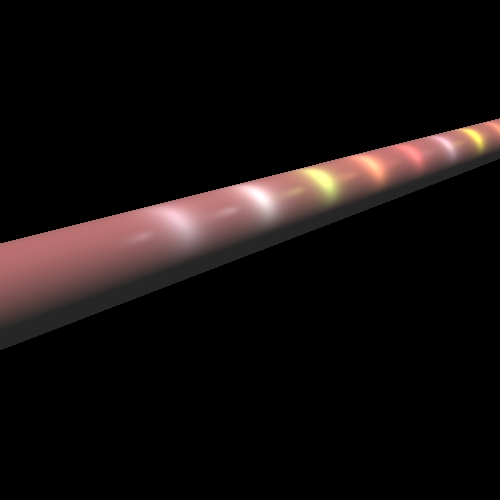
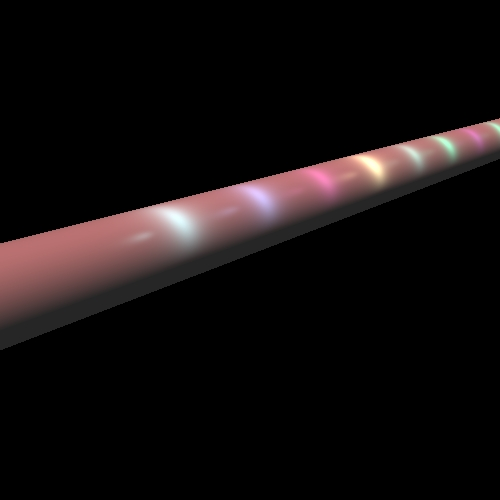
אחרי תיקוני הערות של המרצה

diff --git a/src/unittests/renderer/ImageWriterTest.java b/src/unittests/renderer/ImageWriterTest.java
@@ -1,11 +1,6 @@
 package renderer;
 
-import elements.Camera;
-import org.junit.Before;
 import org.junit.Test;
-import primitives.Point3D;
-import primitives.Vector;
-import scene.Scene;
 
 import java.awt.*;
 
@@ -13,38 +8,24 @@ import java.awt.*;
  * Unit tests for ImageWriter class
  */
 public class ImageWriterTest {
-    Scene scene;
-    ImageWriter imageWriter;
-    Render render;
-
-    @Before
-    public void setUp() {
-        scene = new Scene("Test scene");
-        scene.setCamera(new Camera(Point3D.ZERO, new Vector(0, 0, 1), new Vector(0, -1, 0)));
-        scene.setBackground(new primitives.Color(25, 96, 20));
-    }
-
     /**
      * Test method for {@link renderer.ImageWriter#writeToImage}.
      */
     @Test
     public void writeToImage() {
-        imageWriter = new ImageWriter("Test write to image", 500, 500, 500, 500);
-        render = new Render(imageWriter, scene);
-        render.renderImage();
-        render.printGrid(50, java.awt.Color.YELLOW);
-        imageWriter.writeToImage();
-    }
-
-    /**
-     * Test method for {@link renderer.ImageWriter#writePixel}.
-     */
-    @Test
-    public void writePixel() {
-        imageWriter = new ImageWriter("Test write pixel", 500, 500, 500, 500);
-        render = new Render(imageWriter, scene);
-        render.printGrid(50, java.awt.Color.YELLOW);
-        imageWriter.writePixel(10, 10, new Color(159, 147, 0));
+        int width = 1600;
+        int height = 1000;
+        int nX = 800;
+        int nY = 500;
+        ImageWriter imageWriter = new ImageWriter("Test write to image", width, height, nX, nY);
+        for (int column = 0; column < nY; ++column) {
+            for (int row = 0; row < nX; ++row) {
+                if (column % 50 == 0 || row % 50 == 0)
+                    imageWriter.writePixel(row, column, Color.red);
+                else
+                    imageWriter.writePixel(row, column, Color.YELLOW);
+            }
+        }
         imageWriter.writeToImage();
     }
 }

diff --git a/src/renderer/Render.java b/src/renderer/Render.java
@@ -9,6 +9,8 @@ import scene.Scene;
 
 import java.util.List;
 
+import static primitives.Util.alignZero;
+
 /**
  * class that create image from the scene
  */
@@ -116,7 +118,9 @@ public class Render {
         double kS = material.getKS();
         for (LightSource lightSource : _scene.getLights()) {
             Vector l = lightSource.getL(intersection._point);
-            if ((n.dotProduct(l) > 0 && n.dotProduct(v) > 0) || (n.dotProduct(l) < 0 && n.dotProduct(v) < 0)) {
+            double nDotL = alignZero(n.dotProduct(l));
+            double nDotV = alignZero(n.dotProduct(v));
+            if ((nDotL > 0 && nDotV > 0) || (nDotL < 0 && nDotV < 0)) {
                 Color lightIntensity = lightSource.getIntensity(intersection._point);
                 color = color.add(
                         calcDiffusive(kD, l, n, lightIntensity),
@@ -136,10 +140,11 @@ public class Render {
      * @return the diffusive color
      */
     private Color calcDiffusive(double kD, Vector l, Vector n, Color lightIntensity) {
-        double x = l.dotProduct(n);
-        x = x > 0 ? x : -x;
+        double lDotN = alignZero(l.dotProduct(n));
+        if (lDotN < 0)
+            lDotN = -lDotN;
         // lightIntensity - iL
-        return lightIntensity.scale(x * kD);
+        return lightIntensity.scale(lDotN * kD);
     }
 
     /**
@@ -155,9 +160,10 @@ public class Render {
      */
     private Color calcSpecular(double kS, Vector l, Vector n, Vector v, int nShininess, Color lightIntensity) {
         Vector r = l.subtract(n.scale(l.dotProduct(n) * 2));
-        double x = r.dotProduct(v.scale(-1));
-        x = Math.pow(x > 0 ? x : 0, nShininess) * kS;
-        return lightIntensity.scale(x);
+        double minusVDotR = alignZero(r.dotProduct(v.scale(-1)));
+        if (minusVDotR <= 0)
+            return Color.BLACK;
+        return lightIntensity.scale(Math.pow(minusVDotR, nShininess) * kS);
     }
 
     /**

diff --git a/src/elements/SpotLight.java b/src/elements/SpotLight.java
@@ -41,7 +41,7 @@ public class SpotLight extends PointLight {
      * @param kC        kC >= 1
      * @param kL
      * @param kQ
-     * @param direction Vector direction of the light
+     * @param direction  Direction vector of the light
      */
     public SpotLight(Color intensity, Point3D position, Vector direction, double kC, double kL, double kQ) {
         this(intensity, position, direction, 1, kC, kL, kQ);
@@ -49,10 +49,10 @@ public class SpotLight extends PointLight {
 
     @Override
     public Color getIntensity(Point3D p) {
-        Vector getL = getL(p);
-        if (getL == null) return Color.BLACK;
+        Vector lightVector = getL(p);
+        if (lightVector == null) return Color.BLACK;
 
-        double projection = alignZero(_direction.dotProduct(getL));
+        double projection = alignZero(_direction.dotProduct(lightVector));
         if (projection <= 0) return Color.BLACK;
         projection = Math.pow(projection, _thickness);
 

diff --git a/src/geometries/Cylinder.java b/src/geometries/Cylinder.java
@@ -4,6 +4,8 @@ import primitives.*;
 
 import java.util.List;
 
+import static primitives.Util.alignZero;
+
 /**
  * class that implements cylinder
  */
@@ -104,10 +106,10 @@ public class Cylinder extends Tube {
         Vector v = new Vector(getAxisRay().getVector());
         Vector qp = point.subtract(getAxisRay().getPoint());
 
-        double t = v.dotProduct(qp);
+        double t = alignZero(v.dotProduct(qp));
 
         // if t == 0 v is orthogonal to qp so return qp
-        if (Util.isZero(t) || Util.isZero(t - _height))
+        if (t == 0 || Util.isZero(t - _height))
             return getAxisRay().getVector();
 
         Point3D o = this.getAxisRay().getPoint().add(v.scale(t));

diff --git a/src/unittests/primitives/VectorTests.java b/src/unittests/primitives/VectorTests.java
@@ -4,6 +4,7 @@ import org.junit.Test;
 
 import static java.lang.System.out;
 import static org.junit.Assert.*;
+import static primitives.Util.alignZero;
 import static primitives.Util.isZero;
 
 public class VectorTests {
@@ -58,7 +59,7 @@ public class VectorTests {
         Vector v1 = new Vector(1, 2, 3);
         Vector v2 = new Vector(0, 3, -2);
 
-        assertEquals("ERROR: dotProduct() for orthogonal vectors is not zero", 0, v1.dotProduct(v2), 0.00000001);
+        assertEquals("ERROR: dotProduct() for orthogonal vectors is not zero", 0,v1.dotProduct(v2), 0.00000001);
     }
 
     /**

diff --git a/src/scene/Scene.java b/src/scene/Scene.java
@@ -15,13 +15,13 @@ import java.util.List;
  * class that implements scene
  */
 public class Scene {
-    String _name;
-    Color _background;
-    AmbientLight _ambientLight;
-    Geometries _geometries;
-    Camera _camera;
-    double _distance;
-    List<LightSource> _lights;
+    private String _name;
+    private Color _background;
+    private AmbientLight _ambientLight;
+    private Geometries _geometries;
+    private Camera _camera;
+    private double _distance;
+    private List<LightSource> _lights;
 
     /**
      * Constructor of scene class, get parameter - name of the scene

diff --git a/src/geometries/Tube.java b/src/geometries/Tube.java
@@ -134,9 +134,9 @@ public class Tube extends RadialGeometry {
         Vector v = new Vector(_axisRay.getVector());
         Vector qp = point.subtract(_axisRay.getPoint());
 
-        double t = v.dotProduct(qp);
+        double t = alignZero(v.dotProduct(qp));
         // if t == 0 v is orthogonal to qp so return qp
-        if (isZero(t))
+        if (t == 0)
             return qp;
         Point3D o = _axisRay.getPoint().add(v.scale(t));
         return point.subtract(o).normalize();

diff --git a/src/elements/Camera.java b/src/elements/Camera.java
@@ -4,6 +4,7 @@ import primitives.Point3D;
 import primitives.Ray;
 import primitives.Vector;
 
+import static primitives.Util.alignZero;
 import static primitives.Util.isZero;
 
 /**
@@ -23,7 +24,7 @@ public class Camera {
      */
     public Camera(Point3D location, Vector vTo, Vector vUp) {
 
-        if (vTo.dotProduct(vUp) != 0)
+        if (alignZero(vTo.dotProduct(vUp)) != 0)
             throw new IllegalArgumentException();
 
         _location = new Point3D(location);

diff --git a/src/elements/DirectionalLight.java b/src/elements/DirectionalLight.java
@@ -23,11 +23,11 @@ public class DirectionalLight extends Light implements LightSource {
 
     @Override
     public Color getIntensity(Point3D p) {
-        return new Color(_intensity);
+        return _intensity;
     }
 
     @Override
     public Vector getL(Point3D p) {
-        return new Vector(_direction);
+        return _direction;
     }
 }

diff --git a/src/elements/LightSource.java b/src/elements/LightSource.java
@@ -19,8 +19,8 @@ public interface LightSource {
     /**
      * return direction vector of the light
      *
-     * @param p Point3D required point for his color
-     * @return Vector direction vector of the light
+     * @param p required point for his color
+     * @return direction vector of the light
      */
     Vector getL(Point3D p);
 }

diff --git a/src/elements/Light.java b/src/elements/Light.java
@@ -23,6 +23,6 @@ class Light {
      * @return new Color intensity of the light
      */
     public Color getIntensity() {
-        return new Color(_intensity);
+        return _intensity;
     }
 }
